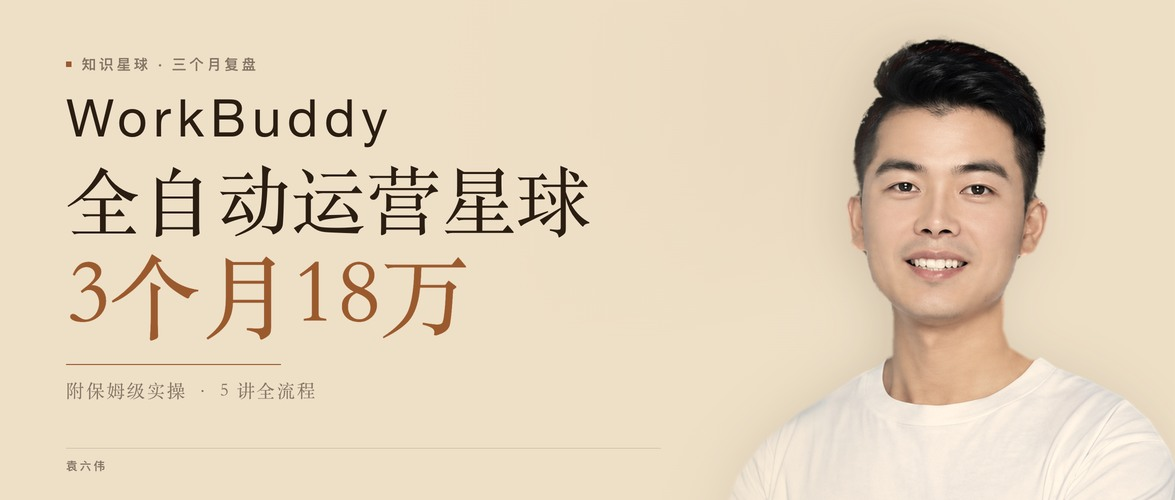
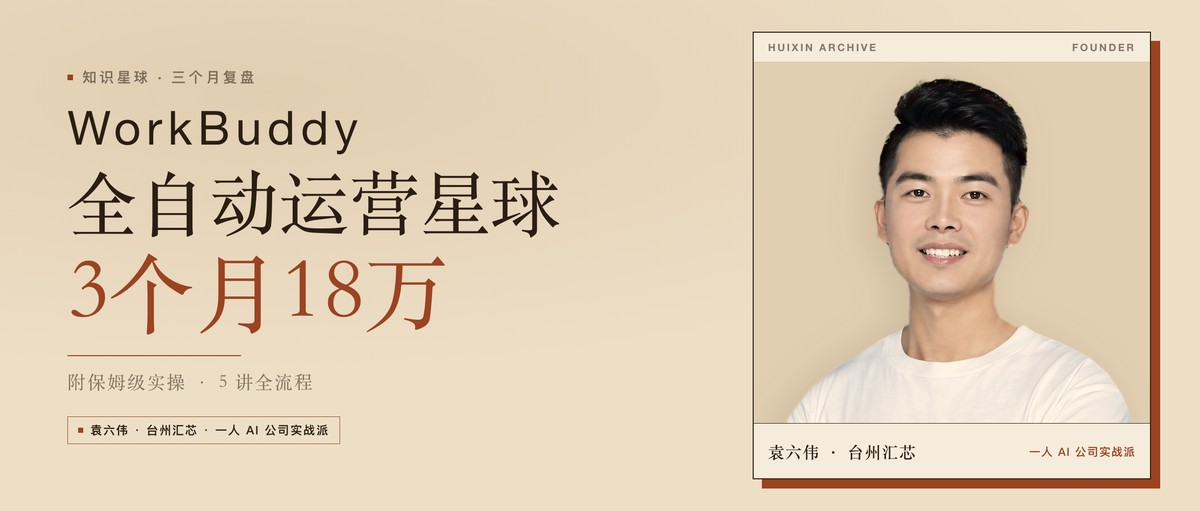
docs: update showcase cover demos for 6 distinct layouts

diff --git a/README.md b/README.md
@@ -72,14 +72,14 @@ https://github.com/sixwei2025/wechat-cover-skill
   <img src="assets/showcase/00-cover-six.jpg" alt="封面六套总览：午夜墨、纸本墨、牛皮纸、靛蓝瓷、瑞士蓝、汇芯红" width="100%" />
 </p>
 
-| 主题 ID | 风格名称 | 底色 / 锚点色 | 真人像色彩策略 | 最佳适用题材 |
+| 主题 ID | 风格名称 | 默认版式（`--layout`） | 底色 / 锚点色 | 最佳适用题材 |
 | :--- | :--- | :--- | :--- | :--- |
-| `midnight` | **午夜墨** | `#0E0D0C` / `#D4A04A` 暖金 | 选择性压暗高光（白 T 压成中灰，保住面部肤色） | 带硬数字的复盘、搞钱算账、深夜深度长文 |
-| `paper` | **纸本墨** | `#F1EFEA` / `#0A0A0B` 纯墨 | 低饱和彩照（保留肤色血色，仅降艳度） | 方法论、核心观点、体系化长文教程 |
-| `kraft` | **牛皮纸** | `#EEDFC7` / `#9B5A2E` 焦糖 | 暖调低饱和（复古感来自纸底色，不抽干人像） | 个人经历、创业踩坑、故事复盘 |
-| `indigo` | **靛蓝瓷** | `#F1F3F5` / `#315D93` 靛蓝 | 冷调半去饱和 | AI 工具实测、产品发布、技术架构拆解 |
-| `swiss` | **瑞士蓝** | `#FAFAF8` / `#002FA7` 克莱因蓝 | 低饱和彩照 + 顶部 26px 瑞士蓝横条 | 行业报告、工具清单、横评数据表 |
-| `brand` | **汇芯红** | `#FAF7F4` / `#C7352D` 品牌红 | 原色彩照轻压暗 | 通用主力，与汇芯红正文排版完全呼应 |
+| `midnight` | **午夜墨** | `cinema`（电影宽银幕 + 底部主创铭牌） | `#0B0B0D` / `#D4A04A` 暖金 | 带硬数字的复盘、搞钱算账、深夜深度长文 |
+| `paper` | **纸本墨** | `masthead`（大刊报头 + 人物破框叠压） | `#F1EFEA` / `#C8102E` 汇芯红 | 方法论、核心观点、体系化长文教程 |
+| `kraft` | **牛皮纸** | `archive-card`（档案相框卡片 + IP 签名底栏） | `#EEDFC7` / `#9B4322` 焦糖 | 个人经历、创业踩坑、案例故事复盘 |
+| `indigo` | **靛蓝瓷** | `duotone-split`（60/40 硬切双色对撞） | `#F3F5F8` + `#132A4A` / `#C8102E` | AI 工具实测、产品发布、技术架构拆解 |
+| `swiss` | **瑞士蓝** | `swiss-grid`（`1px` 细线网格 + 半身特写） | `#FAFAF8` / `#002FA7` 克莱因蓝 | 行业报告、工具清单、横评数据表 |
+| `brand` | **汇芯红** | `editorial`（经典杂志双栏 + IP 印章） | `#FAF7F4` / `#C8102E` 品牌红 | 通用主力，与汇芯红正文排版完全呼应 |
 
 ### 2.2 经典黑红金 v2b 风格（高冲击力工具实测向）
 
